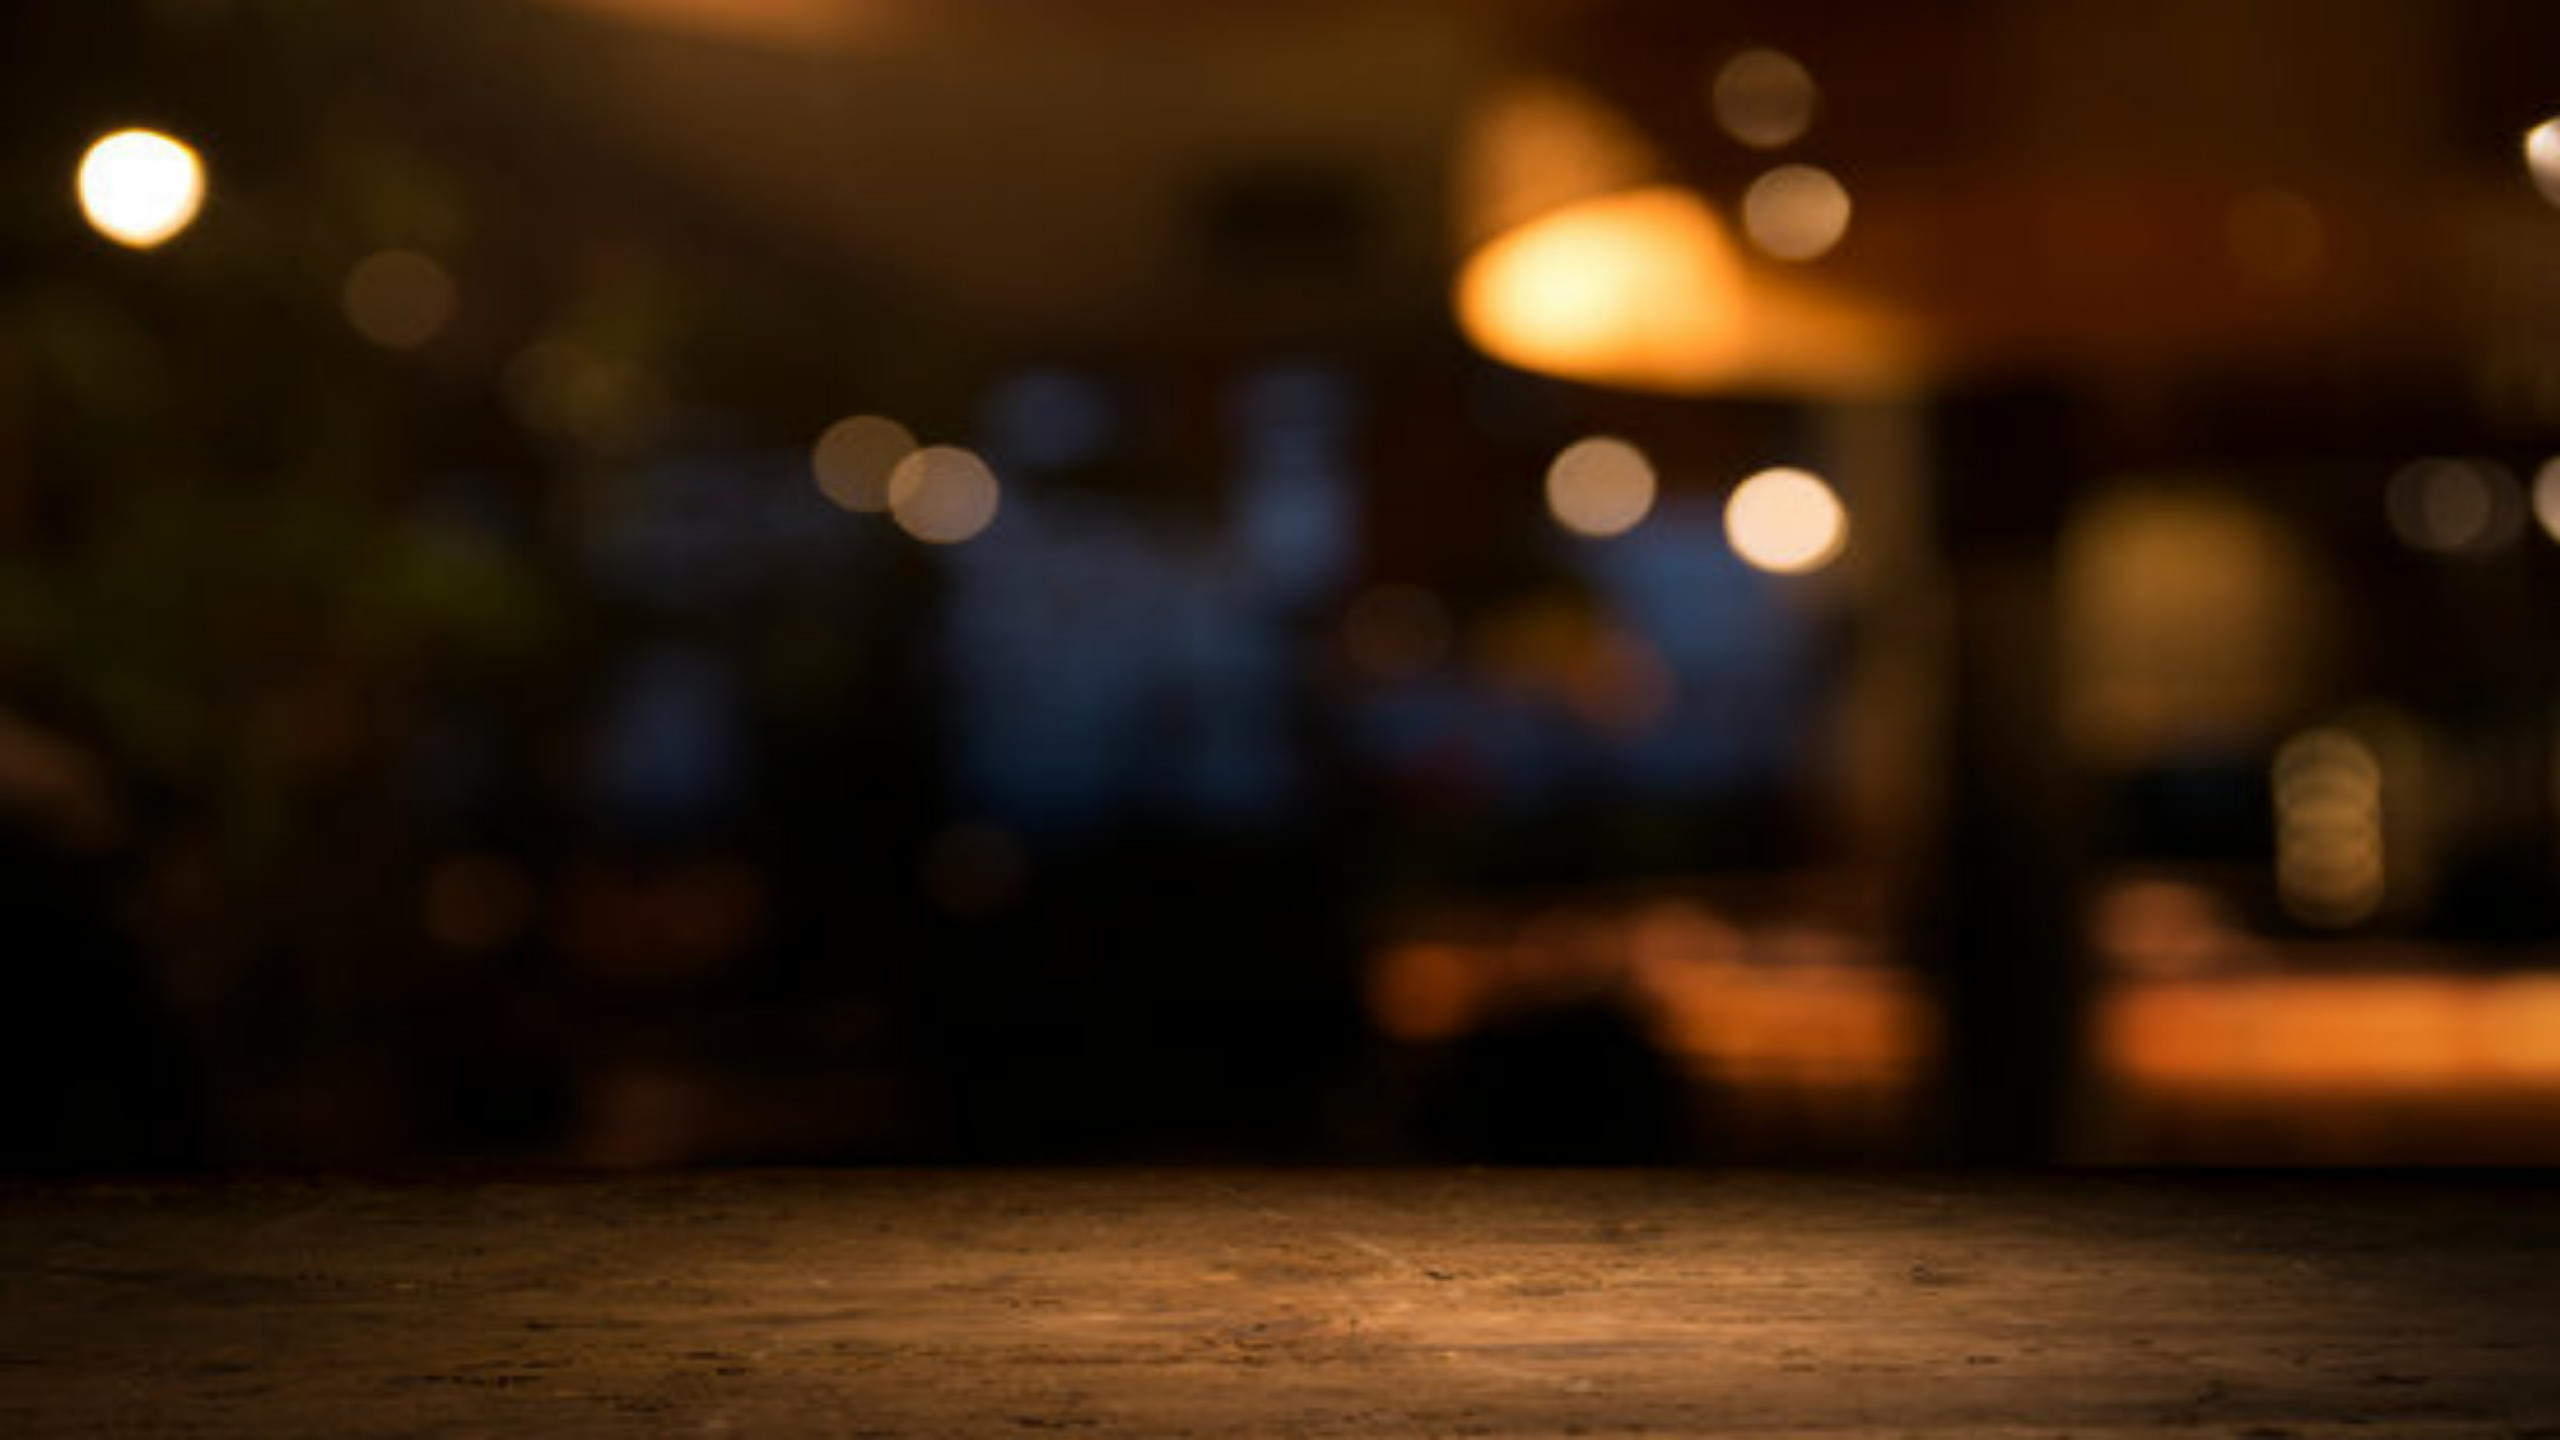
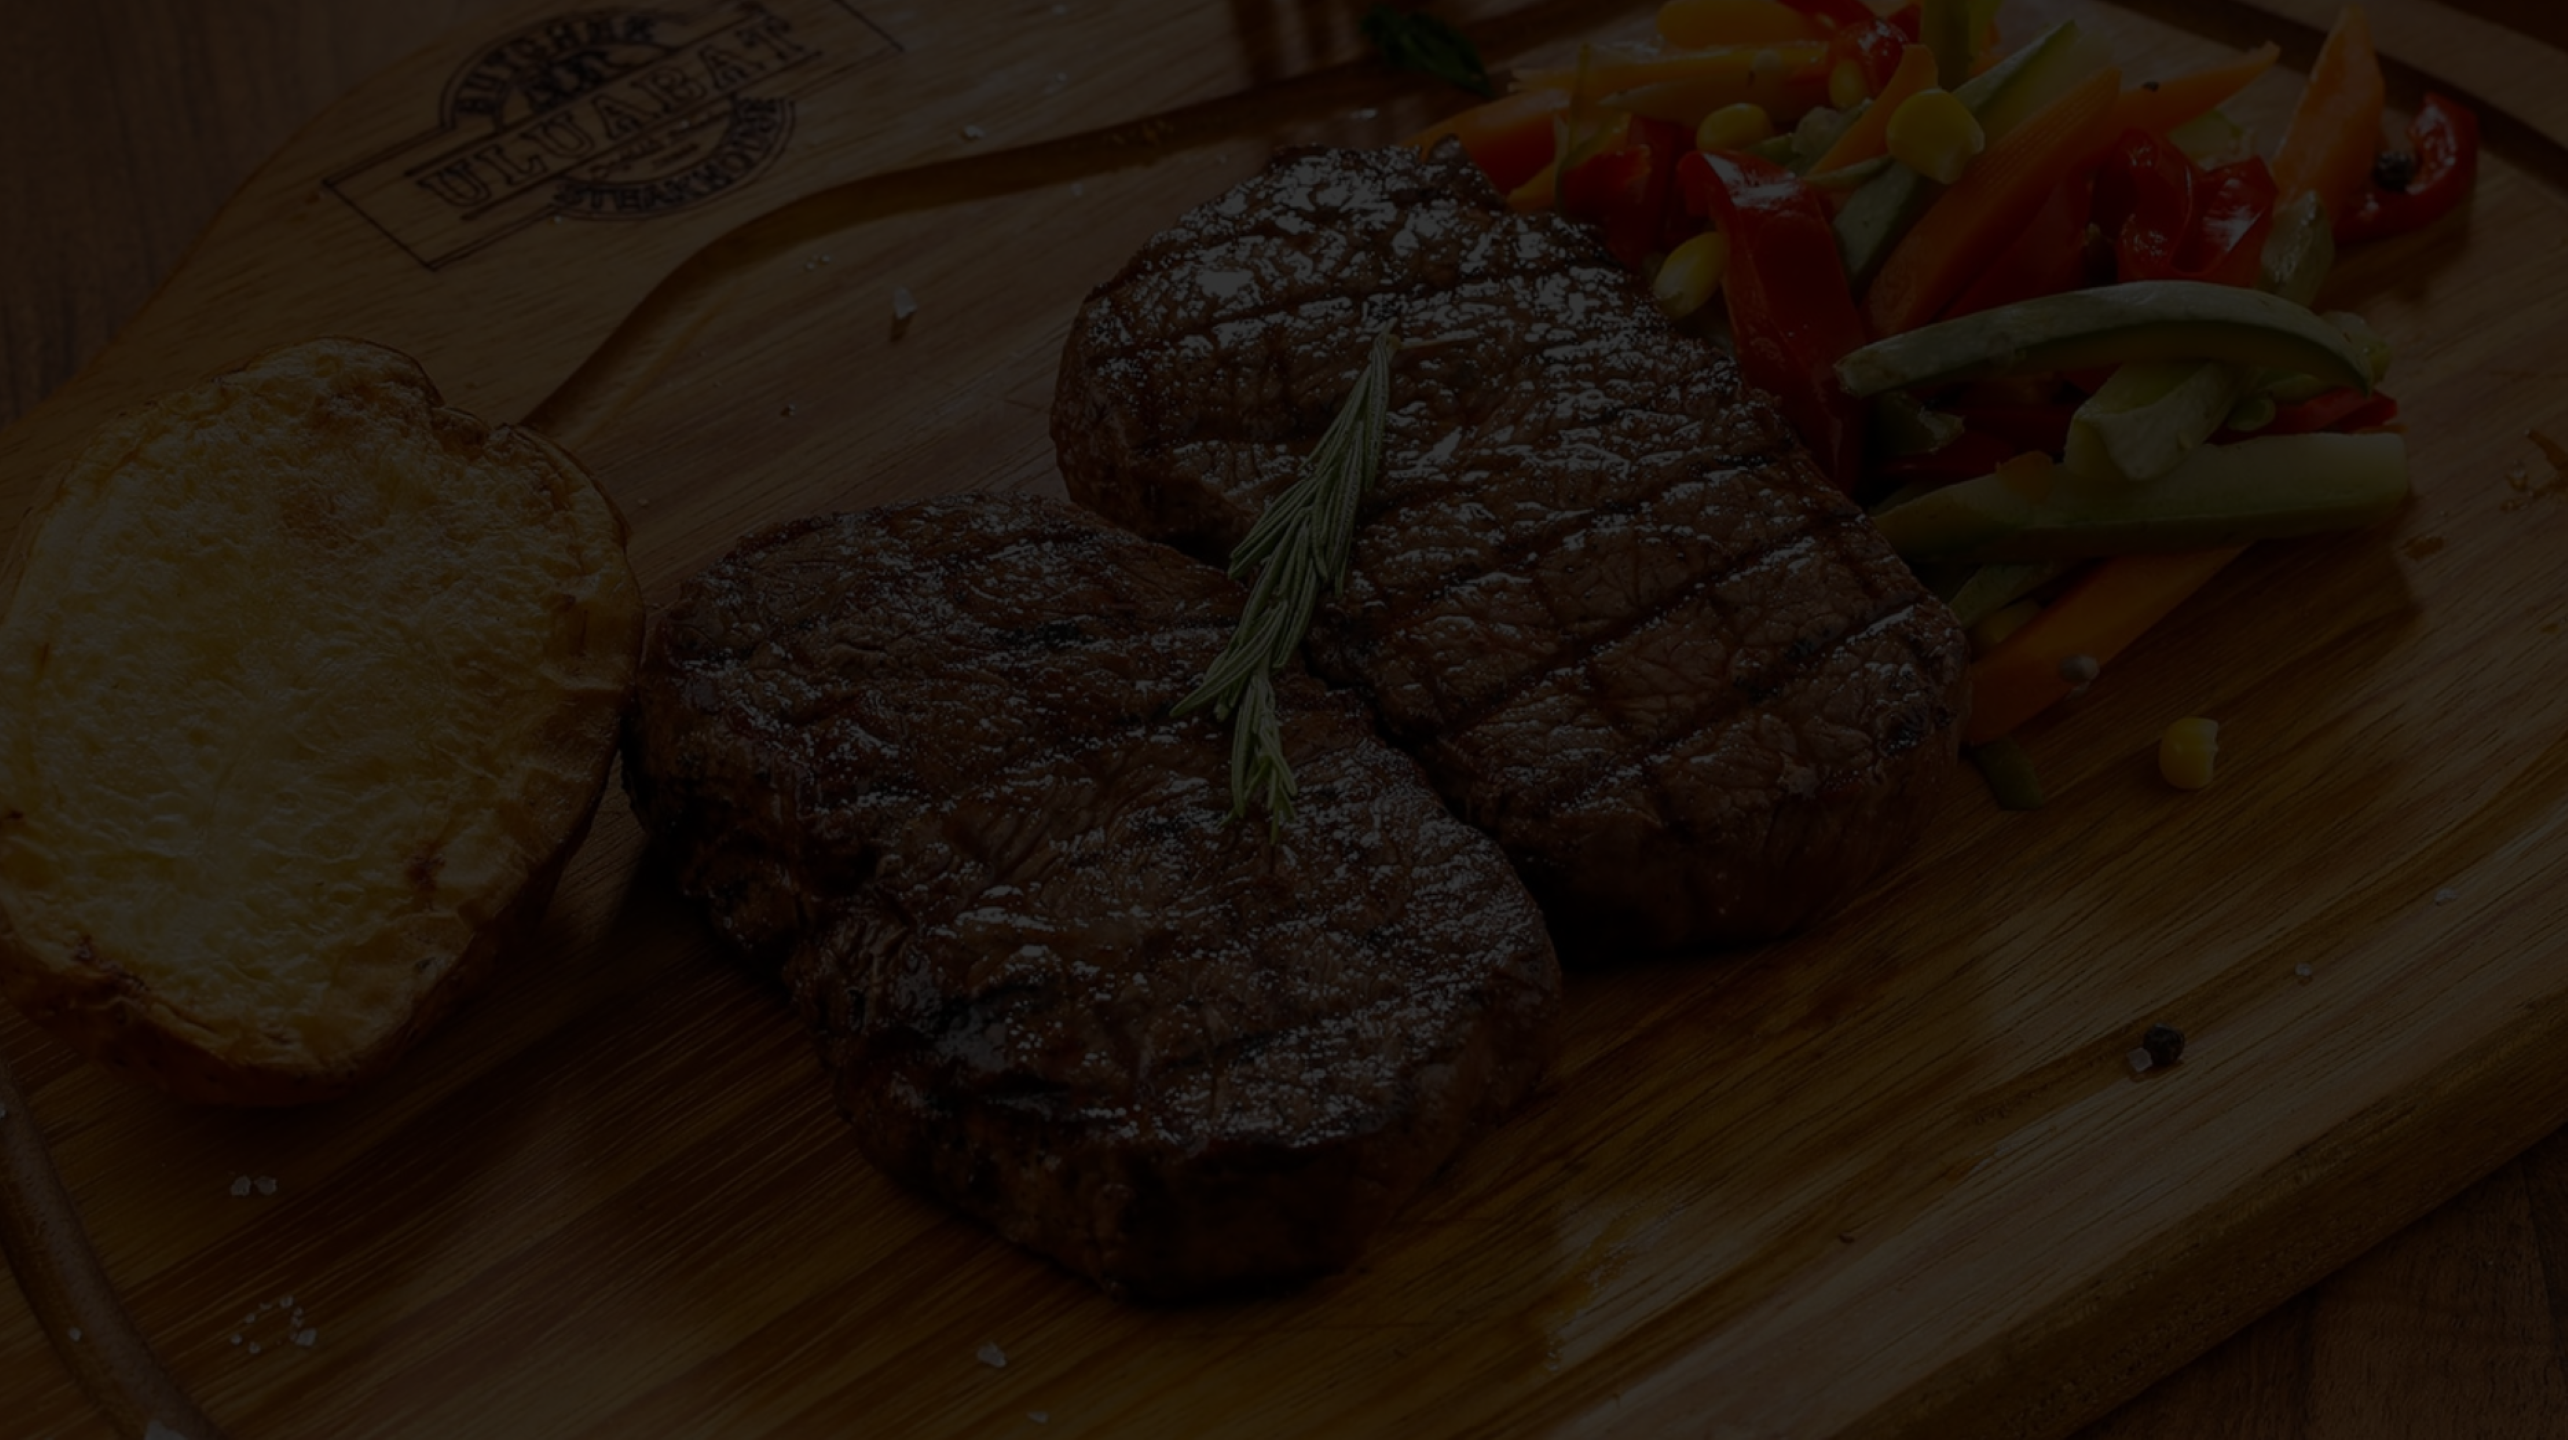
Errors Resolved

diff --git a/public/styles/rating.css b/public/styles/rating.css
@@ -44,6 +44,11 @@ html {
     z-index: 1;
 }
 
+.wrapper > a{
+    text-decoration: none;
+    color: black;
+}
+
 .wrapper .title {
     font-weight: bold;
     font-size: 0.36rem;
@@ -92,7 +97,7 @@ html {
 }
 
 textarea {
-    border: none;
+    border: 1px solid #e0e0e0;
     resize: none;
     width: 100%;
     padding: 0.2rem;
@@ -100,7 +105,6 @@ textarea {
     font-family: inherit;
     line-height: 1.5;
     border-radius: 0.2rem;
-    box-shadow: inset 2px 2px 8px rgba(0, 0, 0, 0.3), inset -2px -2px 8px rgba(255, 255, 255, 0.8);
     background-color: rgba(255, 255, 255, 0.3);
 }
 
@@ -109,6 +113,8 @@ textarea::placeholder {
 }
 
 textarea:focus {
+    border-color: gray;
+    outline: none;
     outline-color: #ffcc33;
 }
 

diff --git a/public/styles/homepage.css b/public/styles/homepage.css
@@ -33,6 +33,10 @@ header a:hover {
     color: rgb(73, 73, 73);
 }
 
+.margin {
+    height: 45.5px;
+}
+
 .body-start {
     background-image: url(/images/homepage/background.png);
     background-size: cover;
@@ -197,7 +201,7 @@ header a:hover {
     font-size: 12px;
 }
 
-.review > div > .pimg{
+.review>div>.pimg {
     height: 150px;
     width: 150px;
     border-radius: 50%;
@@ -315,17 +319,17 @@ footer div a {
     margin-bottom: 10px;
 }
 
-.nav .icon:hover{
+.nav .icon:hover {
     color: grey;
 }
 
-.content > div > p > a {
+.content>div>p>a {
     color: rgb(0, 75, 0);
     text-decoration: none;
     font-weight: 500;
 }
 
-.content > div > a{
+.content>div>a {
     text-decoration: none;
     color: black;
 }

diff --git a/public/scripts/order-placed.js b/public/scripts/order-placed.js
@@ -1,0 +1,5 @@
+function insertCurrentDate() {
+    var today = new Date();
+    var formattedDate = today.toLocaleDateString();
+    document.getElementById('currentDate').innerText = formattedDate;
+}

diff --git a/public/styles/about.css b/public/styles/about.css
@@ -33,6 +33,10 @@ header a:hover {
     color: rgb(73, 73, 73);
 }
 
+.margin {
+    height: 45.5px;
+}
+
 .body-start {
     display: flex;
     height: 470px;

diff --git a/public/styles/menu.css b/public/styles/menu.css
@@ -36,6 +36,10 @@ main {
     background-color: #f5f5f5;
 }
 
+.margin {
+    height: 45.5px;
+}
+
 .menu {
     display: flex;
     height: 470px;
